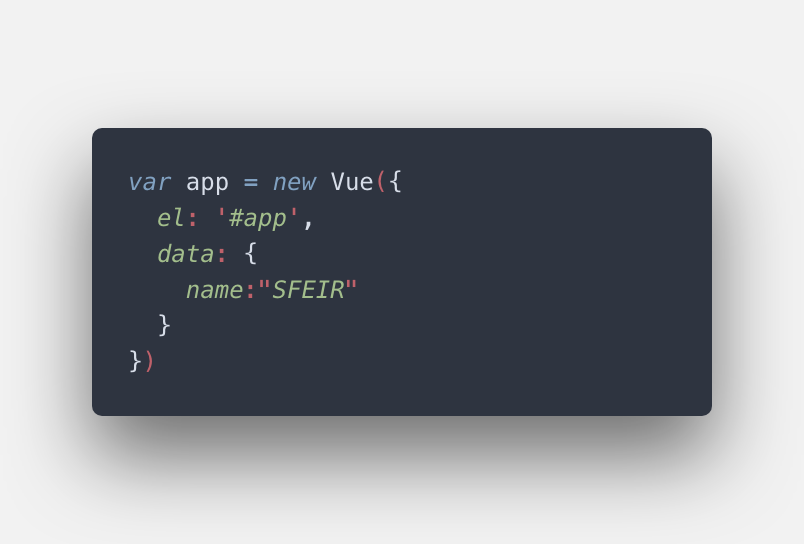
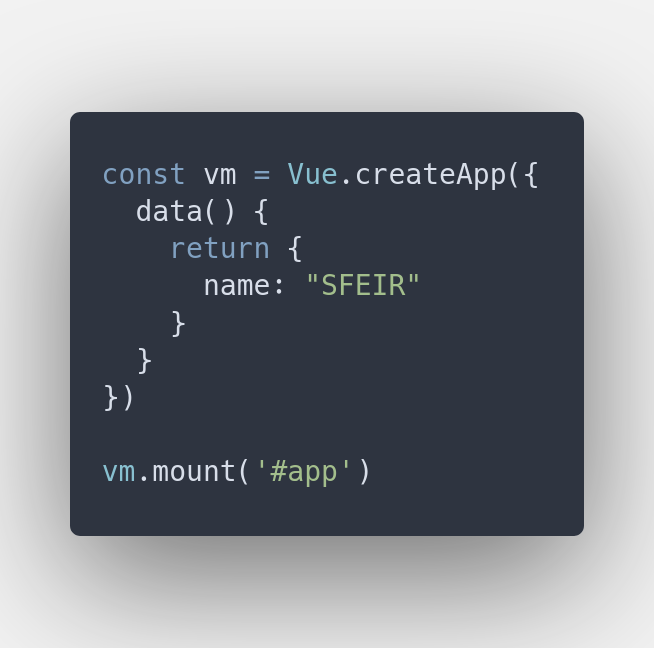
update basic and tooling slides

diff --git a/docs/scripts/slides.js b/docs/scripts/slides.js
@@ -29,6 +29,9 @@ function toolingSlides() {
     'tooling/transition_slide.md',
     'tooling/official_stack.md',
     'tooling/configuration.md',
+    'tooling/ide.md',
+    'tooling/browser_plugin.md',
+    'tooling/material.md',
     'tooling/exercice.md',
   ];
 }

diff --git a/docs/markdown/basics/hello_compositions.md b/docs/markdown/basics/hello_compositions.md
@@ -21,10 +21,10 @@ Notes:
 
 <!-- .slide -->
 # Le script
-Permet d'instancier une vue avec différentes options : <br><br>
-- __el__ pour cible l'élément où doit être placé la "vue"
-- __data__ pour exposer des datas
-<br><br>
+Permet d'instancier une vue avec différentes options (ici __data__ pour exposer des datas).
+
+On appelle __mount__  pour cibler l'élément où doit être placé la "vue"
+<br>
 
 ![center](assets/images/school/basics/script_exemple.png)
 
@@ -46,18 +46,3 @@ Le template Vue peut se passer en option à l'instance de vue:
 <br><br>
 
 ![center](assets/images/school/basics/template_option_instance_exemple.png)
-
-##==##
-
-<!-- .slide  -->
-# Le template
-
-Le template peut se passer en utilisant une balise script de type __x-template__<br><br>
-
-![h-600](assets/images/school/basics/x-template_script_exemple.png)
-![h-600](assets/images/school/basics/x-template_html_exemple.png)
-
-
-Notes:
-Correction de l'exemple :<br>
-Insérer la balse script x-template dans le body, à l'intérieur de la balise <div id="app"></div>

diff --git a/docs/markdown/tooling/configuration.md b/docs/markdown/tooling/configuration.md
@@ -42,31 +42,6 @@ vue-cli-service inspect
 ##==##
 
 <!-- .slide" -->
-# Le Material Design
-<img alt="center h-900" src="assets/images/school/tool/material_design.png">
-Notes:
- - Le Matérial Design sont des règles design. Ce sont des guidlines données par Google pour avoir une visualisation "arrondie" des choses
-
-##==##
-
-<!-- .slide -->
-# Material Design dans notre TP
-<br>
-
-- Ce TP utilise des composants Material Design (ici vue-material)
-    - <b>md-dialog</b>
-    - <b>md-button</b>
-    - <b>card-panel</b>
-    - <b>...</b><br><br>
-- Pour l'utiliser -> Vue.use(VueMaterial)<br><br>
-- Attention, il existe bien d'autres Framework Css, (Vuetify en est un exemple)
-Notes:
-Comparatif frameworks CSS pour vue :
-https://www.npmtrends.com/vue-material-vs-vuetify-vs-bootstrap-vue-vs-element-ui-vs-buefy-vs-weui-vs-vulma
-
-##==##
-
-<!-- .slide" -->
 # Intégration simple vs single page application (spa)
 <br><br>
 __A tout moment vous pouvez utiliser vos instances de vue (et vos composants)__

diff --git a/docs/markdown/tooling/material.md b/docs/markdown/tooling/material.md
@@ -1,0 +1,24 @@
+<!-- .slide" -->
+# Le Material Design
+
+TODOOOOOOOOO n'est pas compatible avec Vue.js 3
+<img alt="center h-400" src="assets/images/school/tool/material_design.png">
+Notes:
+ - Le Matérial Design sont des règles design. Ce sont des guidlines données par Google pour avoir une visualisation "arrondie" des choses
+
+##==##
+<!-- .slide -->
+# Material Design dans notre TP
+<br>
+
+- Ce TP utilise des composants Material Design (ici vue-material)
+    - <b>md-dialog</b>
+    - <b>md-button</b>
+    - <b>card-panel</b>
+    - <b>...</b><br><br>
+- Pour l'utiliser -> Vue.use(VueMaterial)<br><br>
+- Attention, il existe bien d'autres Framework Css, (Vuetify en est un exemple)
+
+Notes:
+  Comparatif frameworks CSS pour vue :
+  https://www.npmtrends.com/vue-material-vs-vuetify-vs-bootstrap-vue-vs-element-ui-vs-buefy-vs-weui-vs-vulma

diff --git a/docs/markdown/tooling/ide.md b/docs/markdown/tooling/ide.md
@@ -1,0 +1,14 @@
+<!-- .slide: class="two-column-layout" -->
+# Les plugins pour IDE
+
+##--##
+<!-- .slide: class="center" -->
+[*Plugin Vetur*](https://marketplace.visualstudio.com/items?itemName=octref.vetur) pour VSCode
+
+![h-600](./assets/images/school/tool/vetur.png)
+
+##--##
+<!-- .slide: class="center" -->
+[*Plugin Vue.js*](https://plugins.jetbrains.com/plugin/9442-vue-js) pour Jetbrains
+
+![h-600](./assets/images/school/tool/jetbrains.png)

diff --git a/docs/markdown/vue-instance/instance.md b/docs/markdown/vue-instance/instance.md
@@ -13,10 +13,10 @@ Une instance est composée de 3 grandes composantes
 ##--##
 <br><br>
 
-![h-400](assets/images/school/vue-instance/constructor.png)
+![h-300](assets/images/school/vue-instance/constructor.png)
 <!-- .element: class="align-image" -->
 
-![h-400](assets/images/school/vue-instance/extend.png)
+![h-300](assets/images/school/vue-instance/extend.png)
 <!-- .element: class="align-image" -->
 
 Notes:

diff --git a/docs/markdown/tooling/browser_plugin.md b/docs/markdown/tooling/browser_plugin.md
@@ -1,0 +1,6 @@
+# Les plugins pour navigateurs
+
+Google Chrome et Mozilla Firefox disposent du même plugin "Vue.js devtools"
+qui ajoute des informations dans la console du navigateur
+
+![h-700 center](./assets/images/school/tool/vuejs_devtools.jpg)
